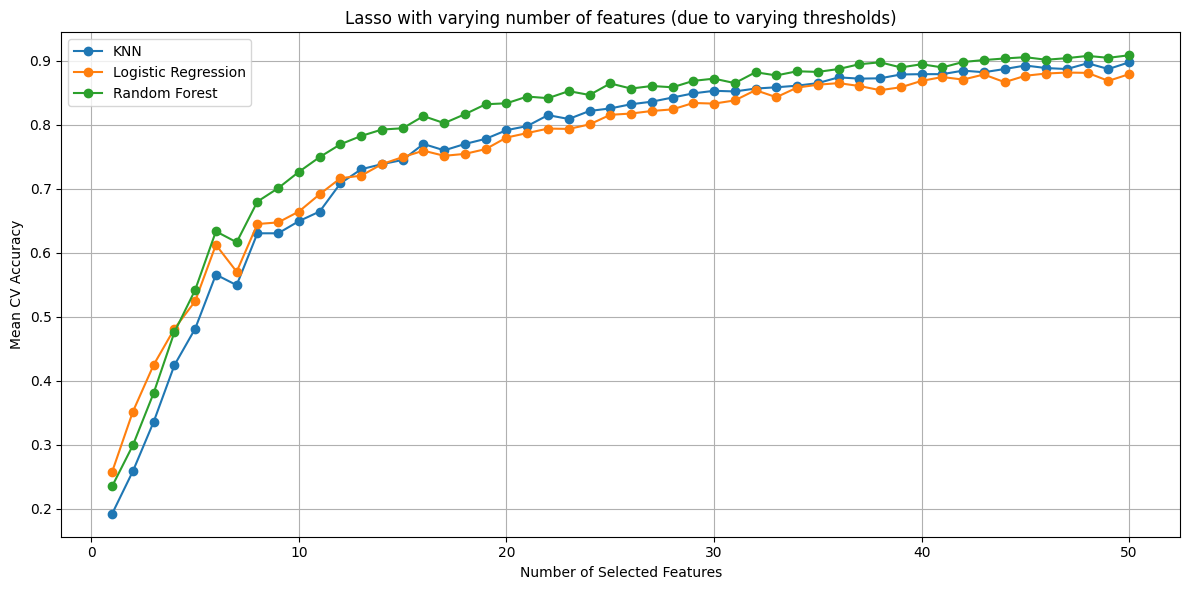
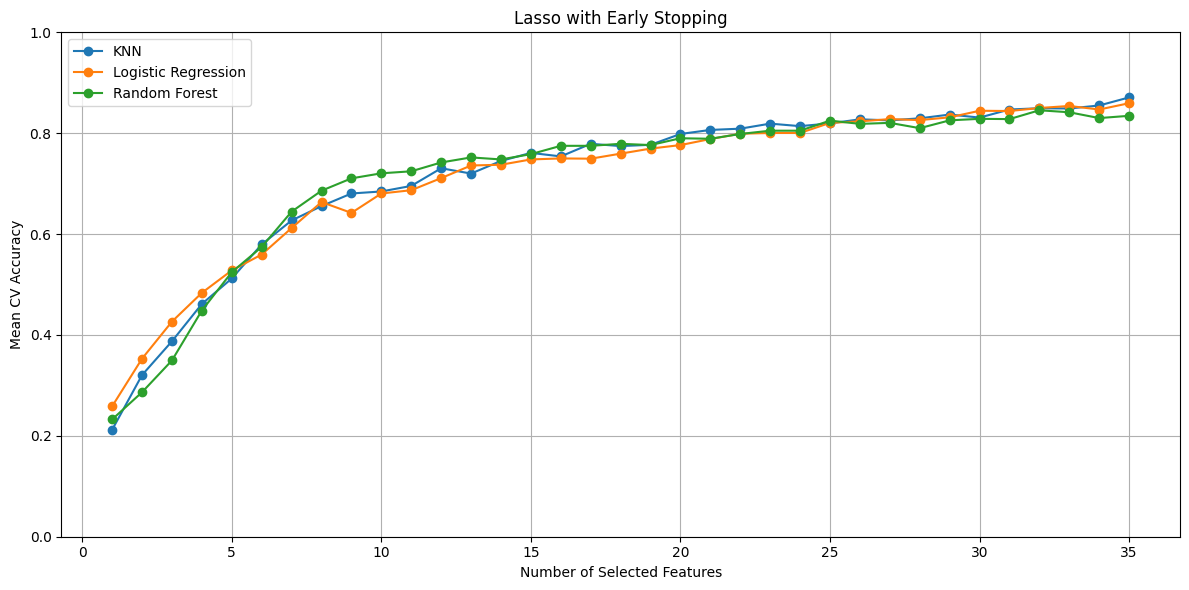
Last Lasso Runs

diff --git a/Project 2/Hedvig_Tweak.py b/Project 2/Hedvig_Tweak.py
@@ -66,7 +66,7 @@ def plot_overlay(use_catdog, X, y, selected_masks):
     plt.show()
 
 #%% Select Dataset
-use_catdog = True  # Set to False to use Numbers.txt
+use_catdog = False  # Set to False to use Numbers.txt
 
 if use_catdog:
     X = load_and_preprocess_data("catdogdata.txt")
@@ -100,8 +100,8 @@ else:
     plt.tight_layout()
     plt.show()
 
-ratio = 0.5
-X_unused, X, y_unused, y = train_test_split(X, y, test_size=ratio)
+#ratio = 0.5
+#X_unused, X, y_unused, y = train_test_split(X, y, test_size=ratio)
 
 #%% IMPORTANT FOR LASSO
 scaler = StandardScaler()
@@ -132,7 +132,7 @@ models = {
 #else:
 #    threshholds = np.flip(np.arange(0.09, 0.5, 0.01))
 
-max_features = 15
+max_features = 35
 
 patience = 5
 min_delta = 0.001 
@@ -183,7 +183,8 @@ for j, (model_name, model) in enumerate(models.items()):
             X_lasso_selected = lasso_selector.transform(X)
             mask = lasso_selector.get_support()
 
-        print(f"{mask.sum()} selected features")
+        if i%10 == 0:
+            print(f"{mask.sum()} selected features")
 
         scores = cross_val_score(model, X_lasso_selected, y, cv=cv)
         mean_score = scores.mean()
@@ -215,7 +216,7 @@ for i, (model_name, model) in enumerate(models.items()):
 
 plt.xlabel("Number of Selected Features")
 plt.ylabel("Mean CV Accuracy")
-plt.title("Lasso with varying number of features")
+plt.title("Lasso with Early Stopping")
 plt.legend()
 plt.grid(True)
 plt.ylim(bottom = 0, top=1)
